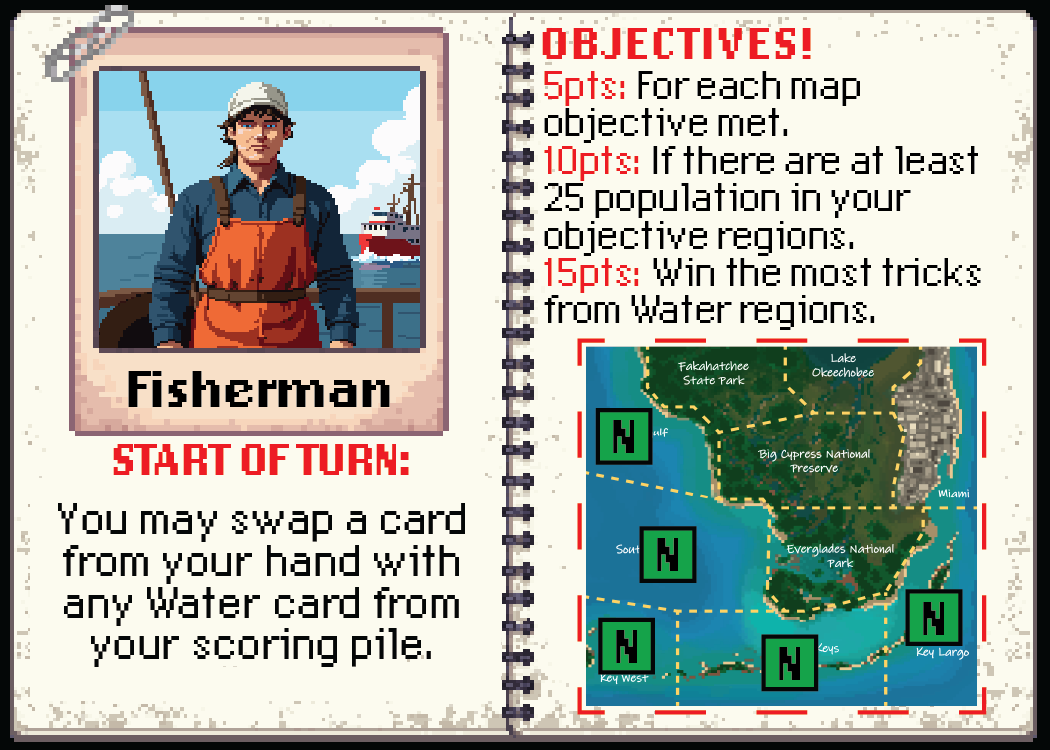
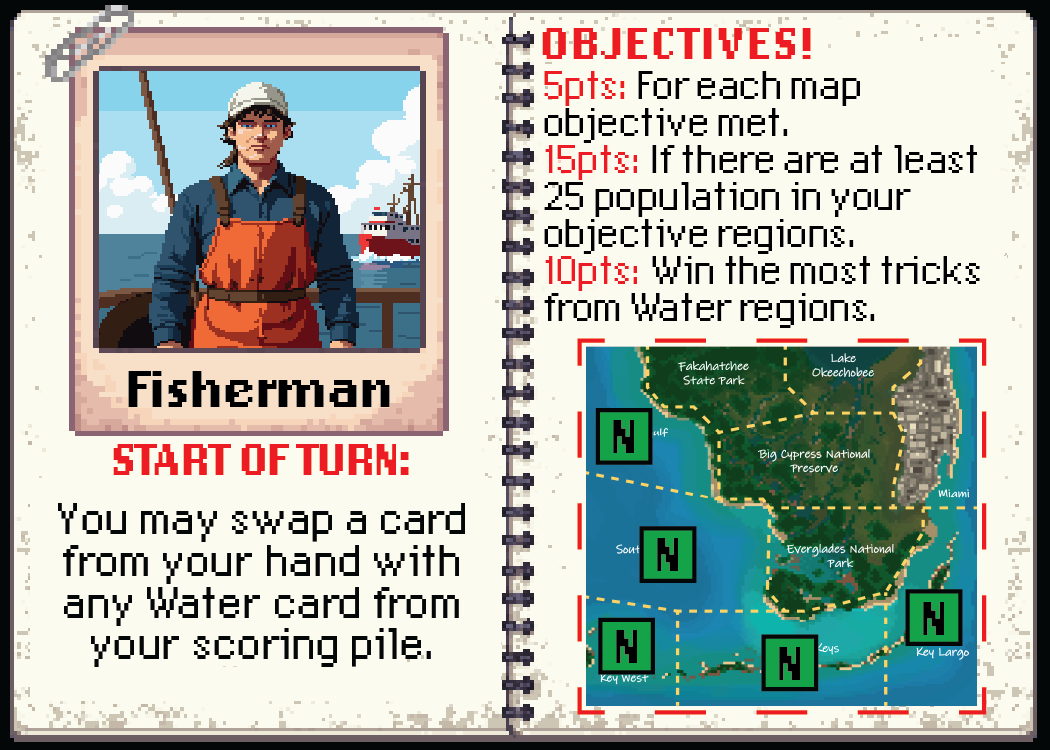
Fisherman rebalance: 15 for 25+ population in objective regions, 10 for the most Water tricks
- The Fisherman's two goals swap values (were 10 and 15). The numbers now
  live in the role data (popPts / tricksPts for the Fisherman and Hunter),
  read by the scoring and by the bots in ai.js alike. The Hunter is unchanged.
- Fisherman role card: the two red labels swapped with
  tools/update_role_cards.js; CARD_V bumped so browsers load the new card.
- test/roles.js checks both goals (and that the Hunter's stay 15/15).

Changed region(s): [[0.5181, 0.276, 0.9448, 0.4293], [0.5181, 0.184, 0.8229, 0.2453], [0.8229, 0.184, 0.9143, 0.2453]]

diff --git a/test/roles.js b/test/roles.js
@@ -97,6 +97,30 @@ console.log('Conservationist and Researcher (Nov 23, 2026)');
   ok(pl.hand[0] === lo && pl.pile[0] === hi, 'Researcher: taking back a lower-Impact card works');
 }
 
+console.log('Fisherman (Nov 24, 2026): 15 for 25+ population in objective regions, 10 for the most Water tricks');
+{
+  const s = game(['Fisherman', 'Hunter', 'Researcher']);
+  const objs = Object.keys(ROLES.Fisherman.map);
+  for (const r of Object.keys(s.board)) s.board[r] = { n: 0, i: 0 };
+  objs.forEach((r, k) => { s.board[r] = { n: k === 0 ? 5 : 4, i: 0 }; }); // 21 in the objective regions
+  let res = G.computeResults(s);
+  ok(line(res, 0, /25\+ population/).pts === 0, 'under 25 population: no points');
+  s.board[objs[0]].i = 4; // 25
+  res = G.computeResults(s);
+  ok(line(res, 0, /25\+ population/).pts === 15, '25 population (Native or Invasive): 15 points');
+  ok(line(res, 1, /25\+ population/).pts === 0 && ROLES.Hunter.popPts === 15, "the Hunter's own goal is unchanged");
+  const water = Object.keys(BIOMES).filter(id => BIOMES[id].suit === 'Water'), land = Object.keys(BIOMES).filter(id => BIOMES[id].suit === 'Land');
+  ok(line(res, 0, /Most tricks from Water/).pts === 0, 'no Water tricks: no points');
+  s.players[0].biomesWon = [water[0], water[1]]; s.players[2].biomesWon = [water[2]];
+  ok(line(G.computeResults(s), 0, /Most tricks from Water/).pts === 10, 'the most Water tricks: 10 points');
+  s.players[2].biomesWon = [water[2], water[3]];
+  ok(line(G.computeResults(s), 0, /Most tricks from Water/).pts === 10, 'tied for the most: still 10');
+  s.players[2].biomesWon = [water[2], water[3], water[4]];
+  ok(line(G.computeResults(s), 0, /Most tricks from Water/).pts === 0, 'someone won more Water tricks: no points');
+  s.players[1].biomesWon = [land[0]];
+  ok(line(G.computeResults(s), 1, /Most tricks from Land/).pts === 15, "the Hunter's most-Land-tricks goal is still 15");
+}
+
 console.log('Burn modifier: 1 card per player burned before the deal');
 {
   const table = (n, opts) => { const s = G.newGame(); for (let i = 0; i < n; i++) G.addPlayer(s, { id: 'p' + i, name: 'P' + i, bot: true, simple: true }); G.startGame(s, opts); return s; };

diff --git a/ai.js b/ai.js
@@ -61,8 +61,8 @@ function handFit(handIds, np = 4) {
     // (an Invasive can usually be dumped where it doesn't follow, so each one is only a modest Crisis risk)
     + R.Conservationist.noCrisisPts * inv.reduce((a, c) => a * (1 - 0.3 * winChance(c)), 1);
   // Fisherman / Hunter: strong Natives of their habitat win its tricks and fill its regions
-  fit.Fisherman = mapPts('Fisherman') + 15 * L((suitWins('Water') - 0.9) * 2.5) + 10 * L((suitPop('Water') - 9) / 3);
-  fit.Hunter = mapPts('Hunter') + 15 * L((suitWins('Land') - 0.9) * 2.5) + 15 * L((suitPop('Land') - 9) / 3);
+  fit.Fisherman = mapPts('Fisherman') + R.Fisherman.tricksPts * L((suitWins('Water') - 0.9) * 2.5) + R.Fisherman.popPts * L((suitPop('Water') - 9) / 3);
+  fit.Hunter = mapPts('Hunter') + R.Hunter.tricksPts * L((suitWins('Land') - 0.9) * 2.5) + R.Hunter.popPts * L((suitPop('Land') - 9) / 3);
   // Researcher: few Invasives that would win means few Crises; many taxonomies in hand feed the pile (and its swap ability)
   fit.Researcher = mapPts('Researcher') + R.Researcher.fewestCrisisPts * inv.reduce((a, c) => a * (1 - 0.2 * winChance(c)), 1)
     + 15 * clamp01(0.15 + 0.12 * (new Set(hand.map(c => c.taxon)).size - 3));
@@ -203,9 +203,9 @@ module.exports = function makeAI(G) {
         case 'Fisherman': case 'Hunter': {
           const suit = pl.role === 'Fisherman' ? 'Water' : 'Land';
           const pop = objs.reduce((a, r) => a + b[r].n + b[r].i, 0);
-          v += (pl.role === 'Fisherman' ? 10 : 15) * L((pop - 24.5) / (1 + sig));
+          v += Rl.popPts * L((pop - 24.5) / (1 + sig));
           const mine = suitTricks(k, suit), best = Math.max(0, ...others.map(q => suitTricks(q, suit)));
-          if (mine > 0.05) v += 15 * L((mine - best + 0.25) / tsig);
+          if (mine > 0.05) v += Rl.tricksPts * L((mine - best + 0.25) / tsig);
           break;
         }
         case 'LandDeveloper': {

diff --git a/public/data.js b/public/data.js
@@ -139,13 +139,13 @@
     },
     Fisherman: {
       name: 'Fisherman', img: 'assets/cards/roles/Fisherman.png', ending: 'assets/cards/roles/FishermanENDING.png',
-      map: { NG: 'N', SG: 'N', KW: 'N', FK: 'N', KL: 'N' }, mapPts: 5,
+      map: { NG: 'N', SG: 'N', KW: 'N', FK: 'N', KL: 'N' }, mapPts: 5, popPts: 15, tricksPts: 10,
       ability: 'Start of turn: you may swap any card from your hand with any Water card from your scoring pile.',
-      goals: ['5 pts for each map objective met', '10 pts if there are at least 25 population in your objective regions', '15 pts if you win the most tricks from Water regions'],
+      goals: ['5 pts for each map objective met', '15 pts if there are at least 25 population in your objective regions', '10 pts if you win the most tricks from Water regions'],
     },
     Hunter: {
       name: 'Game Hunter', img: 'assets/cards/roles/Hunter.png', ending: 'assets/cards/roles/HunterENDING.png',
-      map: { FSP: 'N', LO: 'N', BCNP: 'N', ENP: 'N' }, mapPts: 5,
+      map: { FSP: 'N', LO: 'N', BCNP: 'N', ENP: 'N' }, mapPts: 5, popPts: 15, tricksPts: 15,
       ability: 'Start of turn: you may swap any card from your hand with any Land card from your scoring pile.',
       goals: ['5 pts for each map objective met', '15 pts if there are at least 25 population in your objective regions', '15 pts if you win the most tricks from Land regions'],
     },
@@ -171,7 +171,7 @@
 
   // Role card art changes now and then (new objective numbers): bump CARD_V whenever a role card image is replaced,
   // so every browser fetches the new card at once instead of showing one it saved earlier.
-  const CARD_V = '20261123';
+  const CARD_V = '20261124';
   for (const r of Object.values(ROLES)) r.img += '?v=' + CARD_V;
 
   // Balance experiments only (test runs): EG_ROLE_TUNE='{"Tourist":{"anyPopPts":20}}' overrides role numbers.

diff --git a/game.js b/game.js
@@ -940,11 +940,11 @@ function computeResults(s) {
       lines.push({ label: `Native majority overall (${totalN} vs ${totalI})`, pts: totalN > totalI ? R.majorityPts : 0 });
       lines.push({ label: 'Never triggered an Invasive Crisis', pts: pl.triggeredCrisis ? 0 : R.noCrisisPts });
     } else if (role === 'Fisherman' || role === 'Hunter') {
-      lines.push({ label: `25+ population in objective regions (${objPop})`, pts: objPop >= 25 ? (role === 'Fisherman' ? 10 : 15) : 0 });
+      lines.push({ label: `25+ population in objective regions (${objPop})`, pts: objPop >= 25 ? R.popPts : 0 });
       const suit = role === 'Fisherman' ? 'Water' : 'Land';
       const mine = suitTricks(pl, suit);
       const best = maxOf(people.map(x => suitTricks(x, suit)));
-      lines.push({ label: `Most tricks from ${suit} regions (${mine})`, pts: mine > 0 && mine === best ? 15 : 0 });
+      lines.push({ label: `Most tricks from ${suit} regions (${mine})`, pts: mine > 0 && mine === best ? R.tricksPts : 0 });
     } else if (role === 'LandDeveloper') {
       const empty = REGION_IDS.filter(r => b[r].n + b[r].i === 0).length;
       lines.push({ label: `No population in ${R.emptyNeed}+ regions (${empty} empty)`, pts: empty >= R.emptyNeed ? R.emptyPts : 0 });

diff --git a/tools/update_role_cards.js b/tools/update_role_cards.js
@@ -43,6 +43,15 @@ const CARDS = {
       ['10pts:', 'If you trigger the', 'most Invasive crises.'],
     ],
   },
+  // (Fisherman: run with the current card in the source folder, which already has the newer ability text)
+  Fisherman: {
+    pitch: 37,
+    objectives: [
+      ['5pts:', 'For each map', 'objective met.'],
+      ['15pts:', 'If there are at least', '25 population in your', 'objective regions.'],
+      ['10pts:', 'Win the most tricks', 'from Water regions.'],
+    ],
+  },
   Tourist: {
     pitch: 33, top: -4, // 8 lines instead of 7: a little tighter, and starting 4 px higher, to stay clear of the map
     objectives: [

diff --git a/README.md b/README.md
@@ -250,7 +250,7 @@ Your rulebook (Everglades 2.0), the reference card and the printed cards disagre
 5. **Fisherman/Hunter swap:** swap **any** card from your hand with **any** Water card (Fisherman) or Land card (Hunter), Native or Invasive, from your scoring pile. There's no Impact restriction, and the role cards now say so: "You may swap a card from your hand with any Water (Land) card from your scoring pile." The text was rebuilt from words cut out of the cards themselves, in the same pixel font; the originals are saved in `_backup_role_cards`.
 6. **"Most / least" goals** still count when you're tied. "Most" goals need at least 1 (trick, or for the Land Developer, Invasive Crisis). The Tourist's "did not win any tricks outside of your objective regions" goal is met by winning no tricks at all, too.
 9. **Role changes (Nov 2026):** the **Land Developer** scores 15 for **2** empty regions (was 3), and 10 for triggering **the most Invasive Crises** (was the most tricks). The **Conservationist** scores **10** for each map objective (was 15). The **Tourist**'s ability looks at the **top 2** Travel cards and puts 1 of them on the bottom (was the top card, which could stay or go). Their 10-point goal is **at least 1 population in each map objective region** (was all map objectives met), and their 20-point goal is worded "If you did not win any tricks outside of your objective regions". The card art was updated with `tools/update_role_cards.js`, which sets new objective lines from letters cut out of the cards' own printed objectives (`tools/role_card_glyphs.js`) and the ability in the hand-made pixel font.
-10. **Role changes (Nov 23, 2026):** the **Conservationist** scores **5** for never triggering an Invasive Crisis (was 15). The **Researcher**'s swap must take back a scoring-pile card with a **lower Impact** than the hand card it replaces (was any card), and their 10-point goal is now **triggering the fewest Invasive Crises** (ties count; was winning the fewest tricks). Both cards were regenerated with `tools/update_role_cards.js` and `CARD_V` was bumped.
+10. **Role changes (Nov 23, 2026):** the **Conservationist** scores **5** for never triggering an Invasive Crisis (was 15). The **Researcher**'s swap must take back a scoring-pile card with a **lower Impact** than the hand card it replaces (was any card), and their 10-point goal is now **triggering the fewest Invasive Crises** (ties count; was winning the fewest tricks). Both cards were regenerated with `tools/update_role_cards.js` and `CARD_V` was bumped. **Fisherman (Nov 24):** 25+ population in their objective regions is now worth **15** (was 10), and winning the most Water tricks is worth **10** (was 15). These numbers live in the role data (`popPts` / `tricksPts`, used by the scoring and the bots alike); the card's two red labels were swapped with the same tool.
 7. **Fisherman/Hunter endings** compare Native vs Invasive **Water/Land** cards in their scoring pile.
 8. **Setup:** the Ecology deck is dealt evenly and any leftover cards are discarded. Seating (turn order) is random. Players then **choose their roles in turn order** after seeing their hand, and roles are **public**. Both are changes from the rulebook's secret, randomly dealt roles. The rulebook's "1 impact card" at setup is skipped because no such card exists in the art.
 9. `NGOpenWaterss.png` is treated as a third Northern Gulf biome. It looks like a duplicate file name, so you may want to rename it.
